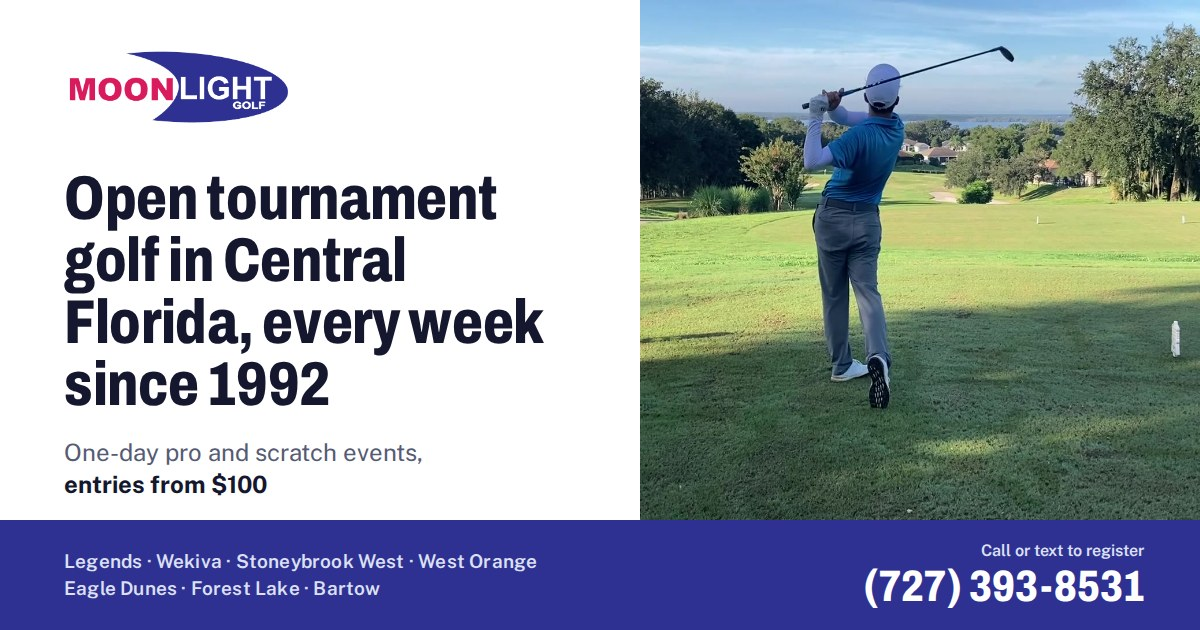
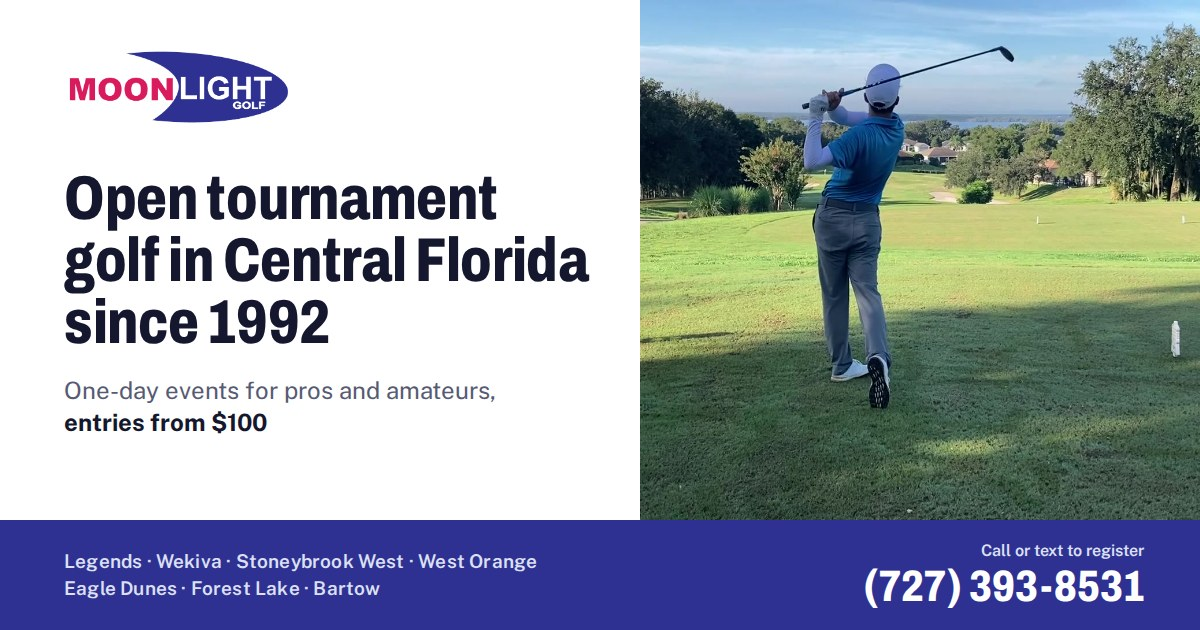
Ryan's copy edits: pros and amateurs, since 1992, college/aspiring pro section

Changed region(s): [[0.0308, 0.4524, 0.4625, 0.7841], [0.3392, 0.3619, 0.4933, 0.4524]]

diff --git a/index.html b/index.html
@@ -3,8 +3,8 @@
 <head>
 <meta charset="utf-8">
 <meta name="viewport" content="width=device-width, initial-scale=1">
-<title>Moonlight Golf Tour | Weekly Open Pro Golf, Central Florida</title>
-<meta name="description" content="Moonlight Golf Tour: one-day open pro and scratch golf events in Central Florida every week since 1992. Entries from $100. Call or text (727) 393-8531.">
+<title>Moonlight Golf Tour | Open Golf Tournaments, Central Florida</title>
+<meta name="description" content="Moonlight Golf Tour: one-day open golf tournaments for pros and amateurs in Central Florida since 1992. Entries from $100. Call or text (727) 393-8531.">
 <meta name="robots" content="noindex, nofollow">
 <link rel="canonical" href="https://crossfiber.github.io/MGT/">
 <meta name="theme-color" content="#2E3192">
@@ -14,17 +14,17 @@
 <meta property="og:site_name" content="Moonlight Golf Tour">
 <meta property="og:locale" content="en_US">
 <meta property="og:url" content="https://crossfiber.github.io/MGT/">
-<meta property="og:title" content="Moonlight Golf Tour | Weekly Open Pro Golf, Central Florida">
-<meta property="og:description" content="Moonlight Golf Tour: one-day open pro and scratch golf events in Central Florida every week since 1992. Entries from $100. Call or text (727) 393-8531.">
+<meta property="og:title" content="Moonlight Golf Tour | Open Golf Tournaments, Central Florida">
+<meta property="og:description" content="Moonlight Golf Tour: one-day open golf tournaments for pros and amateurs in Central Florida since 1992. Entries from $100. Call or text (727) 393-8531.">
 <meta property="og:image" content="https://crossfiber.github.io/MGT/assets/og-card.jpg">
 <meta property="og:image:width" content="1200">
 <meta property="og:image:height" content="630">
-<meta property="og:image:alt" content="Moonlight Golf Tour: open tournament golf in Central Florida every week since 1992, entries from $100, call or text (727) 393-8531">
+<meta property="og:image:alt" content="Moonlight Golf Tour: open tournament golf in Central Florida since 1992, entries from $100, call or text (727) 393-8531">
 <meta name="twitter:card" content="summary_large_image">
-<meta name="twitter:title" content="Moonlight Golf Tour | Weekly Open Pro Golf, Central Florida">
-<meta name="twitter:description" content="Moonlight Golf Tour: one-day open pro and scratch golf events in Central Florida every week since 1992. Entries from $100. Call or text (727) 393-8531.">
+<meta name="twitter:title" content="Moonlight Golf Tour | Open Golf Tournaments, Central Florida">
+<meta name="twitter:description" content="Moonlight Golf Tour: one-day open golf tournaments for pros and amateurs in Central Florida since 1992. Entries from $100. Call or text (727) 393-8531.">
 <meta name="twitter:image" content="https://crossfiber.github.io/MGT/assets/og-card.jpg">
-<meta name="twitter:image:alt" content="Moonlight Golf Tour: open tournament golf in Central Florida every week since 1992, entries from $100, call or text (727) 393-8531">
+<meta name="twitter:image:alt" content="Moonlight Golf Tour: open tournament golf in Central Florida since 1992, entries from $100, call or text (727) 393-8531">
 <link rel="preconnect" href="https://fonts.googleapis.com">
 <link rel="preconnect" href="https://fonts.gstatic.com" crossorigin>
 <link href="https://fonts.googleapis.com/css2?family=Archivo:wdth,wght@62..125,400..900&family=Public+Sans:ital,wght@0,400..700;1,400&display=swap" rel="stylesheet">
@@ -32,17 +32,12 @@
 
 <script type="application/ld+json">
 {"@context":"https://schema.org","@graph":[
-{"@type":"SportsOrganization","@id":"https://crossfiber.github.io/MGT/#tour","name":"Moonlight Golf Tour","alternateName":["MGT","OGATOUR.org"],"sport":"Golf","foundingDate":"1992","url":"https://crossfiber.github.io/MGT/","logo":"https://crossfiber.github.io/MGT/assets/moonlight-golf-logo.jpg","image":"https://crossfiber.github.io/MGT/assets/og-card.jpg","description":"Moonlight Golf Tour: one-day open pro and scratch golf events in Central Florida every week since 1992. Entries from $100. Call or text (727) 393-8531.","telephone":"+1-727-393-8531","email":"FrankMagee@OGATOUR.org","address":{"@type":"PostalAddress","postOfficeBoxNumber":"4232","addressLocality":"Seminole","addressRegion":"FL","postalCode":"33775","addressCountry":"US"},"areaServed":{"@type":"AdministrativeArea","name":"Central Florida"},"parentOrganization":{"@type":"Organization","name":"No EXemptions Tour, Inc."},"contactPoint":[{"@type":"ContactPoint","contactType":"registration","telephone":"+1-727-393-8531","email":"FrankMagee@OGATOUR.org","areaServed":"US"}],"sameAs":["https://awc.ogatour.org/"]},
+{"@type":"SportsOrganization","@id":"https://crossfiber.github.io/MGT/#tour","name":"Moonlight Golf Tour","alternateName":["MGT","OGATOUR.org"],"sport":"Golf","foundingDate":"1992","url":"https://crossfiber.github.io/MGT/","logo":"https://crossfiber.github.io/MGT/assets/moonlight-golf-logo.jpg","image":"https://crossfiber.github.io/MGT/assets/og-card.jpg","description":"Moonlight Golf Tour: one-day open golf tournaments for pros and amateurs in Central Florida since 1992. Entries from $100. Call or text (727) 393-8531.","telephone":"+1-727-393-8531","email":"FrankMagee@OGATOUR.org","address":{"@type":"PostalAddress","postOfficeBoxNumber":"4232","addressLocality":"Seminole","addressRegion":"FL","postalCode":"33775","addressCountry":"US"},"areaServed":{"@type":"AdministrativeArea","name":"Central Florida"},"parentOrganization":{"@type":"Organization","name":"No EXemptions Tour, Inc."},"contactPoint":[{"@type":"ContactPoint","contactType":"registration","telephone":"+1-727-393-8531","email":"FrankMagee@OGATOUR.org","areaServed":"US"}],"sameAs":["https://awc.ogatour.org/"]},
 {"@type":"SportsEvent","name":"Moonlight Golf Tour at Eagle Dunes","startDate":"2026-09-29T08:30:00-04:00","eventStatus":"https://schema.org/EventScheduled","eventAttendanceMode":"https://schema.org/OfflineEventAttendanceMode","sport":"Golf","location":{"@type":"Place","name":"Eagle Dunes","address":{"@type":"PostalAddress","addressRegion":"FL","addressCountry":"US"}},"organizer":{"@id":"https://crossfiber.github.io/MGT/#tour"},"offers":{"@type":"Offer","price":"100","priceCurrency":"USD","url":"https://crossfiber.github.io/MGT/#schedule"}},
 {"@type":"SportsEvent","name":"Moonlight Golf Tour at Wekiva","startDate":"2026-09-30T07:30:00-04:00","eventStatus":"https://schema.org/EventScheduled","eventAttendanceMode":"https://schema.org/OfflineEventAttendanceMode","sport":"Golf","location":{"@type":"Place","name":"Wekiva Golf Club","address":{"@type":"PostalAddress","addressRegion":"FL","addressCountry":"US"}},"organizer":{"@id":"https://crossfiber.github.io/MGT/#tour"},"offers":{"@type":"Offer","price":"100","priceCurrency":"USD","url":"https://crossfiber.github.io/MGT/#schedule"}},
 {"@type":"SportsEvent","name":"Moonlight Golf Tour at Forest Lake","startDate":"2026-10-01T09:00:00-04:00","eventStatus":"https://schema.org/EventScheduled","eventAttendanceMode":"https://schema.org/OfflineEventAttendanceMode","sport":"Golf","location":{"@type":"Place","name":"Forest Lake","address":{"@type":"PostalAddress","addressRegion":"FL","addressCountry":"US"}},"organizer":{"@id":"https://crossfiber.github.io/MGT/#tour"},"offers":{"@type":"Offer","price":"100","priceCurrency":"USD","url":"https://crossfiber.github.io/MGT/#schedule"}},
 {"@type":"SportsEvent","name":"Moonlight Golf Tour at Bartow Golf Club","startDate":"2026-10-04T08:00:00-04:00","eventStatus":"https://schema.org/EventScheduled","eventAttendanceMode":"https://schema.org/OfflineEventAttendanceMode","sport":"Golf","location":{"@type":"Place","name":"Bartow Golf Club","address":{"@type":"PostalAddress","addressLocality":"Bartow","addressRegion":"FL","addressCountry":"US"}},"organizer":{"@id":"https://crossfiber.github.io/MGT/#tour"},"offers":{"@type":"Offer","price":"100","priceCurrency":"USD","url":"https://crossfiber.github.io/MGT/#schedule"}},
-{"@type":"SportsEvent","name":"Moonlight Golf Tour at Legends, two rounds","startDate":"2026-10-06T08:30:00-04:00","endDate":"2026-10-07","eventStatus":"https://schema.org/EventScheduled","eventAttendanceMode":"https://schema.org/OfflineEventAttendanceMode","sport":"Golf","location":{"@type":"Place","name":"Legends","address":{"@type":"PostalAddress","addressLocality":"Clermont","addressRegion":"FL","addressCountry":"US"}},"organizer":{"@id":"https://crossfiber.github.io/MGT/#tour"},"offers":{"@type":"Offer","price":"300","priceCurrency":"USD","url":"https://crossfiber.github.io/MGT/#schedule"}},
-{"@type":"FAQPage","mainEntity":[
-{"@type":"Question","name":"Do I need status or an exemption to play the Moonlight Golf Tour?","acceptedAnswer":{"@type":"Answer","text":"No. Virtually anyone may enter. You need to know the Rules of Golf, play by them, and keep proper tournament etiquette. Course setup is the same for every player."}},
-{"@type":"Question","name":"How do I pay?","acceptedAnswer":{"@type":"Answer","text":"Cash at the event. Personal checks are accepted once you have played at least three events. No credit or debit cards."}},
-{"@type":"Question","name":"How do I register and get a tee time?","acceptedAnswer":{"@type":"Answer","text":"Call or text the tour office at (727) 393-8531 before the 48-hour registration deadline. For your tee time, text the same number between 7 and 8pm the night before the event."}}
-]}
+{"@type":"SportsEvent","name":"Moonlight Golf Tour at Legends, two rounds","startDate":"2026-10-06T08:30:00-04:00","endDate":"2026-10-07","eventStatus":"https://schema.org/EventScheduled","eventAttendanceMode":"https://schema.org/OfflineEventAttendanceMode","sport":"Golf","location":{"@type":"Place","name":"Legends","address":{"@type":"PostalAddress","addressLocality":"Clermont","addressRegion":"FL","addressCountry":"US"}},"organizer":{"@id":"https://crossfiber.github.io/MGT/#tour"},"offers":{"@type":"Offer","price":"300","priceCurrency":"USD","url":"https://crossfiber.github.io/MGT/#schedule"}}
 ]}
 </script>
 
@@ -229,13 +224,16 @@ html.menu-open{overflow:hidden}
 .levels .btn{margin-top:26px}
 .levels-photo img{width:100%;height:auto;aspect-ratio:16/9}
 
-/* still deciding + contact share one band */
+/* who it is for + contact share one band */
 .close{padding:96px 0 104px;background:var(--field)}
 .close-grid{display:grid;grid-template-columns:minmax(0,6fr) minmax(0,5fr);gap:64px;align-items:start}
 .close h2{font-size:clamp(2.2rem,3.6vw,3.2rem)}
 .qa{margin-top:28px;display:grid;gap:26px}
 .qa h3{font-family:var(--body);font-weight:700;font-size:1.1rem;line-height:1.35;margin-bottom:6px}
 .qa p{color:var(--muted);max-width:38em}
+.qa p+p{margin-top:10px}
+.qa .courses{color:var(--ink);font-weight:600;line-height:1.7}
+.qa .courses span{white-space:nowrap}
 .contact{background:var(--plate);border:1px solid var(--line);border-radius:var(--r);padding:36px}
 .contact h2{font-size:1.9rem}
 .contact .big-phone{display:inline-block;margin-top:8px;padding:4px 0;font-family:var(--display);font-stretch:78%;font-weight:800;font-size:clamp(2.4rem,4vw,3.2rem);color:var(--accent);text-decoration:none;line-height:1}
@@ -388,8 +386,8 @@ html.menu-open{overflow:hidden}
 <section class="hero" id="top" aria-labelledby="h1">
   <div class="wrap hero-grid">
     <div class="hero-copy">
-      <h1 id="h1">Open tournament golf in Central Florida, every week since 1992</h1>
-      <p class="hero-sub">The Moonlight Golf Tour runs stroke-play events for pros and scratch amateurs at Legends, Wekiva, Stoneybrook West, West Orange, Eagle Dunes and Bartow. Entries from $100, cash at the course, and your score goes on the board next to everyone else's.</p>
+      <h1 id="h1">Open tournament golf in Central Florida since 1992</h1>
+      <p class="hero-sub">The Moonlight Golf Tour runs stroke-play events for pros and amateurs at Legends, Wekiva, Stoneybrook West, West Orange, Eagle Dunes and Bartow. Entries from $100, cash at the course.</p>
       <div class="hero-ctas">
         <a class="btn btn-primary" href="sms:+17273938531">Text to register</a>
         <a class="btn btn-ghost" href="#schedule">See the schedule</a>
@@ -511,7 +509,7 @@ html.menu-open{overflow:hidden}
     </figure>
     <div>
       <h2 id="levels-h">Play your way up to Levels 2 and 3</h2>
-      <p>Above the weekly events, NEXT! runs two higher stages. You move up on scores alone, with no exemptions for anyone. Past Level 2 and 3 winners have been awarded between $2,000 and $15,000.</p>
+      <p>Above the regular events, NEXT! runs two higher stages. You move up on scores alone, with no exemptions for anyone. Past Level 2 and 3 winners have been awarded between $2,000 and $15,000.</p>
       <a class="btn btn-ghost" href="https://awc.ogatour.org/O_ListLev2_1Day.php">See Levels 2 and 3</a>
     </div>
   </div>
@@ -520,15 +518,15 @@ html.menu-open{overflow:hidden}
 <section class="close" id="contact" aria-labelledby="close-h">
   <div class="wrap close-grid">
     <div>
-      <h2 id="close-h">Still deciding?</h2>
+      <h2 id="close-h">Tournament reps for college players and aspiring pros</h2>
       <div class="qa">
         <div>
-          <h3>Do I need status or an exemption to play?</h3>
-          <p>No. Virtually anyone may enter. You need to know the Rules of Golf, play by them, and keep proper tournament etiquette. Every player gets the same course setup, and the scores decide the rest.</p>
+          <p>Open to pros and amateurs alike. Every event is a real stroke-play field with a posted result, and your swing on film. When your scores earn it, Levels 2 and 3 are the next step.</p>
         </div>
         <div>
-          <h3>How do I pay?</h3>
-          <p>Cash at the event. Personal checks are accepted once you've played at least three events. No credit or debit cards. The <a class="tlink" href="https://awc.ogatour.org/contactA.htm">tour FAQ</a> and <a class="tlink" href="https://awc.ogatour.org/PDFgallery.htm">rules and local rules</a> cover the rest.</p>
+          <h3>Where you'll play</h3>
+          <p class="courses"><span>Legends (Clermont)</span> &middot; <span>Wekiva</span> &middot; <span>Stoneybrook West</span> &middot; <span>West Orange</span> &middot; <span>Eagle Dunes</span> &middot; <span>Forest Lake</span> &middot; <span>Bartow GC</span></p>
+          <p>Local rules and policies are posted on <a class="tlink" href="https://awc.ogatour.org/PDFgallery.htm">the tour rules page</a>.</p>
         </div>
       </div>
     </div>
@@ -552,7 +550,7 @@ html.menu-open{overflow:hidden}
     <div class="foot-grid">
       <div class="foot-brand">
         <a class="foot-logo" href="#top" aria-label="Moonlight Golf Tour, back to top"><img src="assets/moonlight-golf-logo.jpg" alt="Moonlight Golf" width="748" height="307" loading="lazy"></a>
-        <p>Open pro and scratch golf in Central Florida, every week since 1992. Operated by No EXemptions Tour, Inc. and posted at OGATOUR.org.</p>
+        <p>Open pro and amateur golf in Central Florida since 1992. Operated by No EXemptions Tour, Inc. and posted at OGATOUR.org.</p>
       </div>
       <div>
         <h3>On this page</h3>
